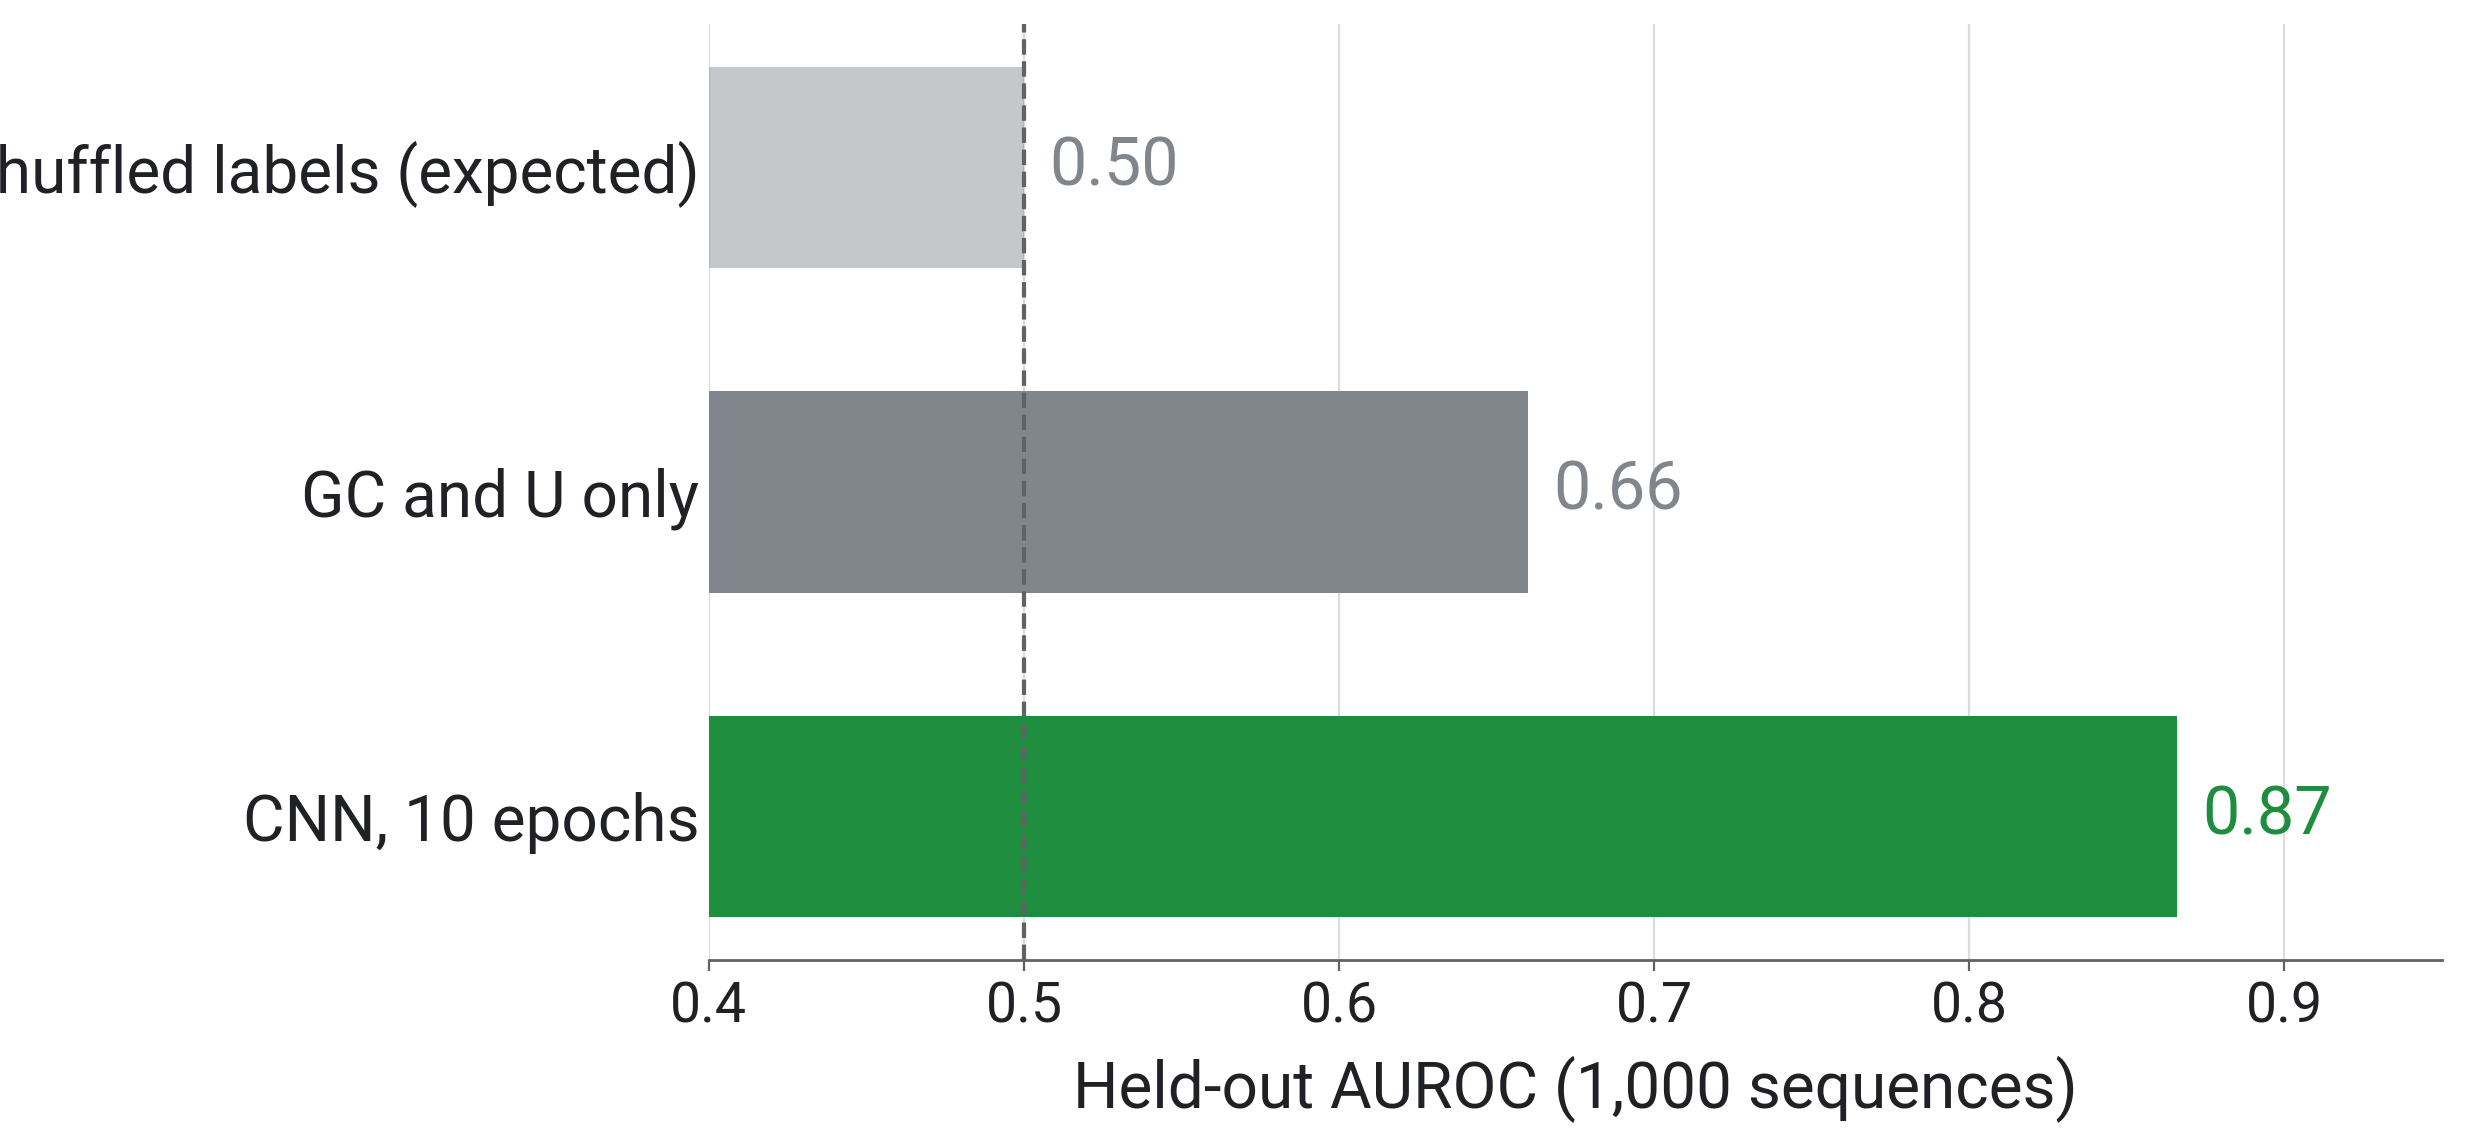
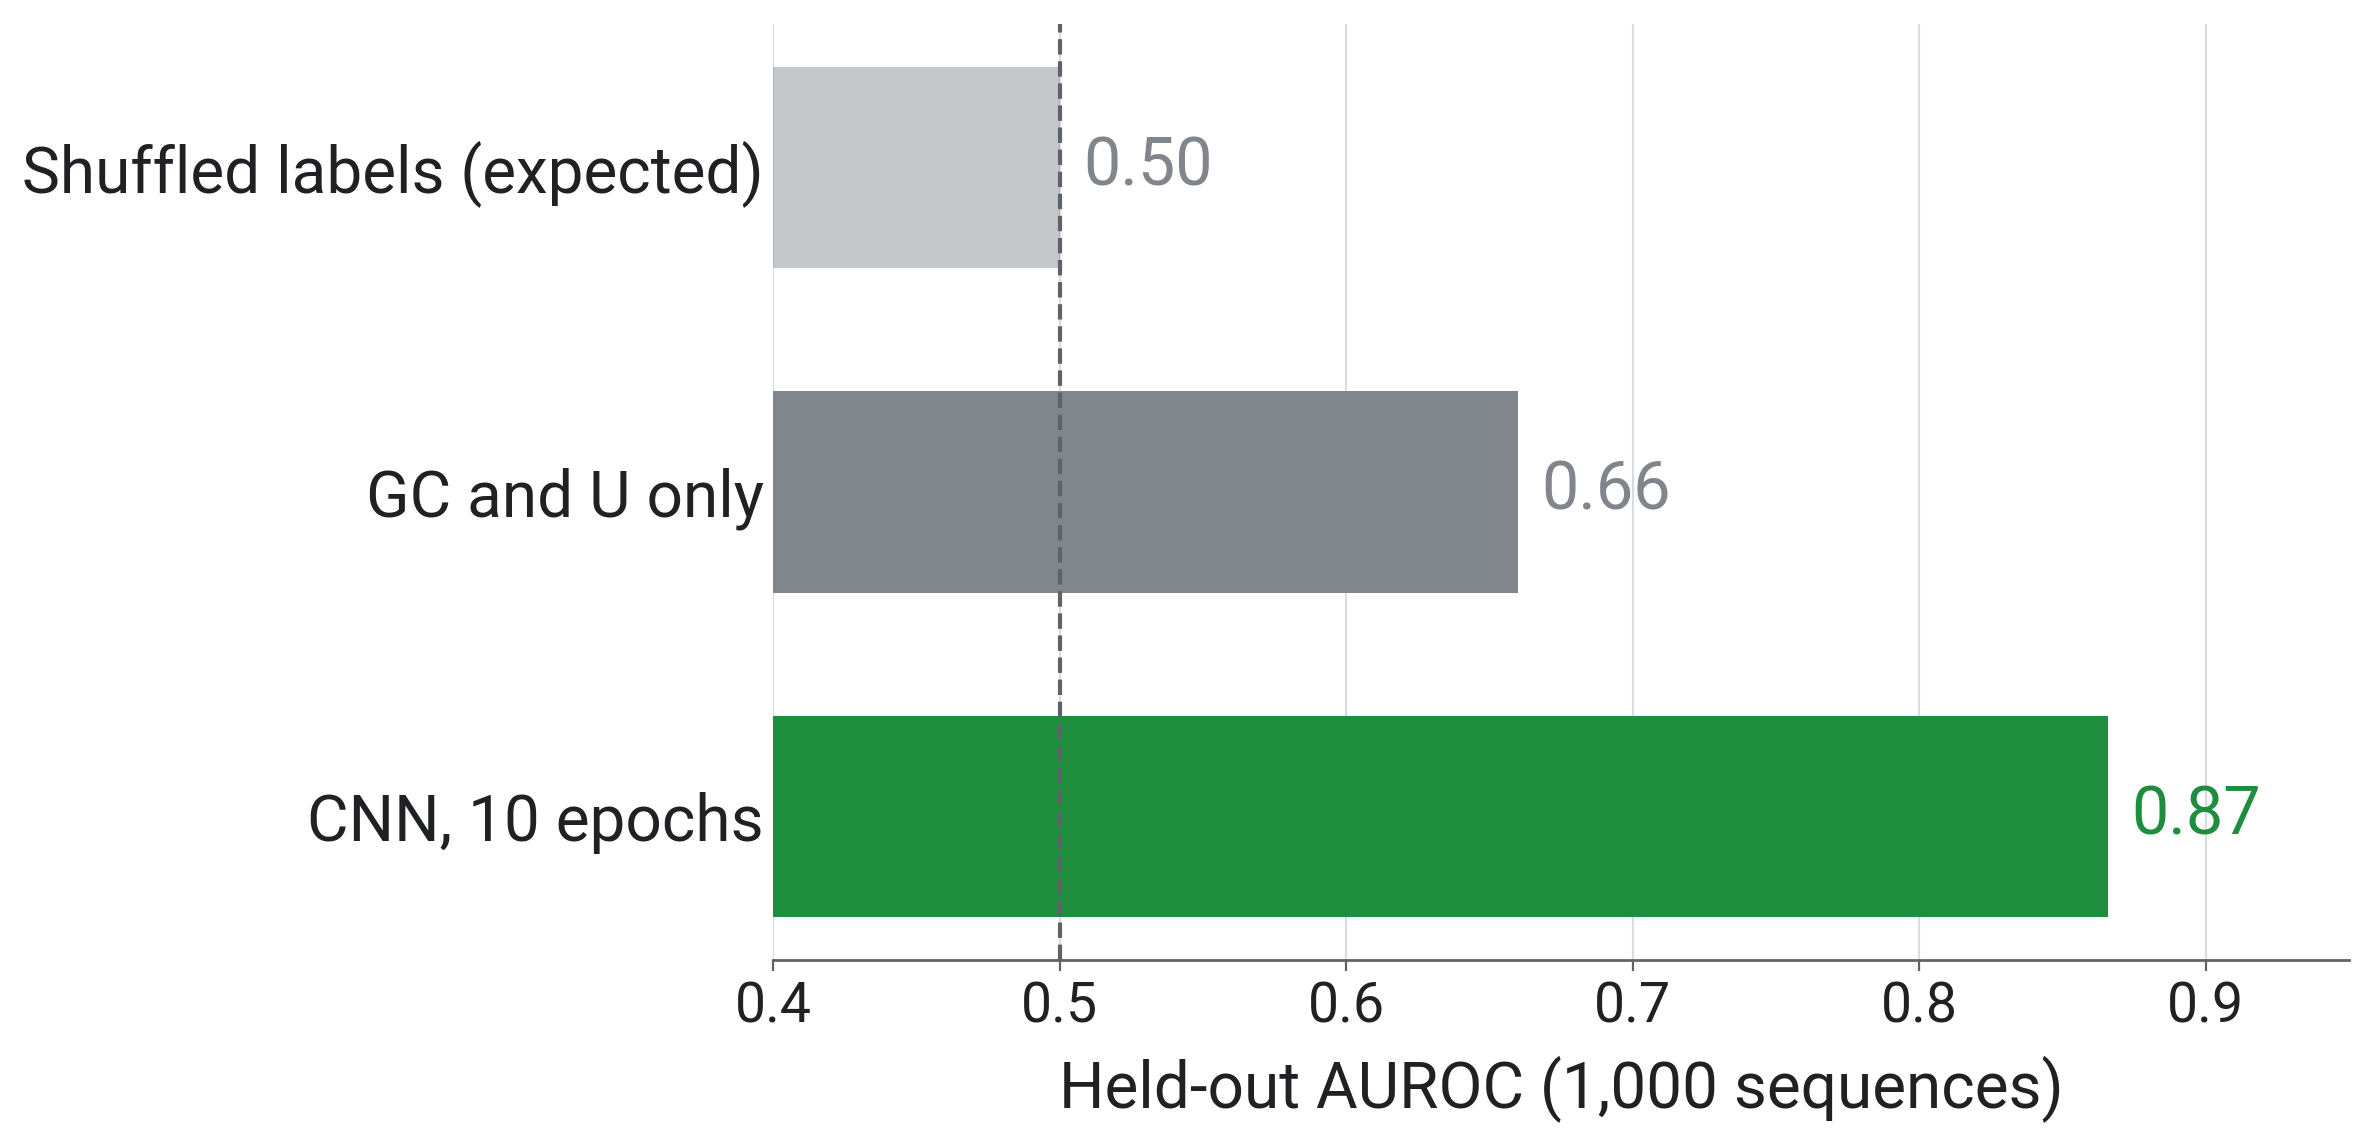
Lab tutorial deck: checks figure label no longer clipped

diff --git a/slides/figures/figs_agents.py b/slides/figures/figs_agents.py
@@ -500,7 +500,7 @@ def lab_skills():
 def checks():
     rows = [("Shuffled labels (expected)", 0.50, MID), ("GC and U only", 0.66, MID), ("CNN, 10 epochs", 0.866, CNN_C)]
     fig = newfig(); fig.set_size_inches(16, 6)
-    ax = fig.add_axes([0.27, 0.18, 0.66, 0.78])
+    ax = fig.add_axes([0.33, 0.18, 0.6, 0.78])
     for i, (n, v, c) in enumerate(rows):
         ax.barh(i, v - 0.4, left=0.4, color=c, height=0.62, alpha=0.45 if "expected" in n else 1)
         ax.text(v + 0.008, i, f"{v:.2f}", va="center", fontsize=24, color=c)
